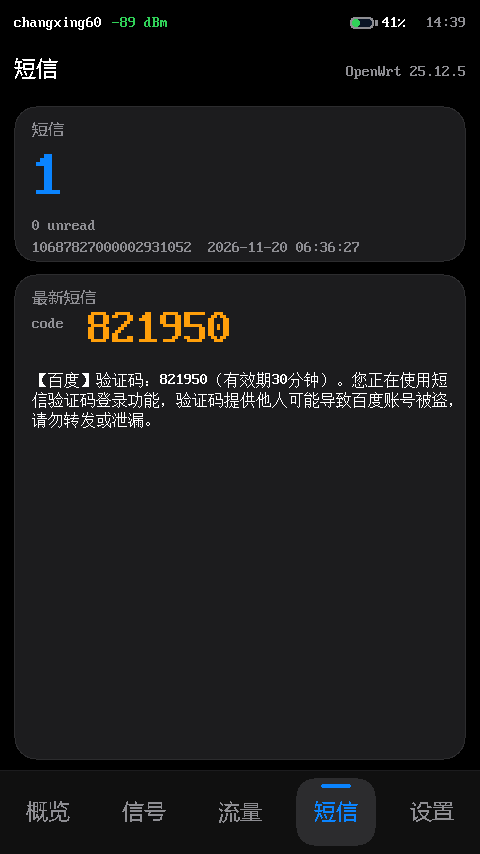
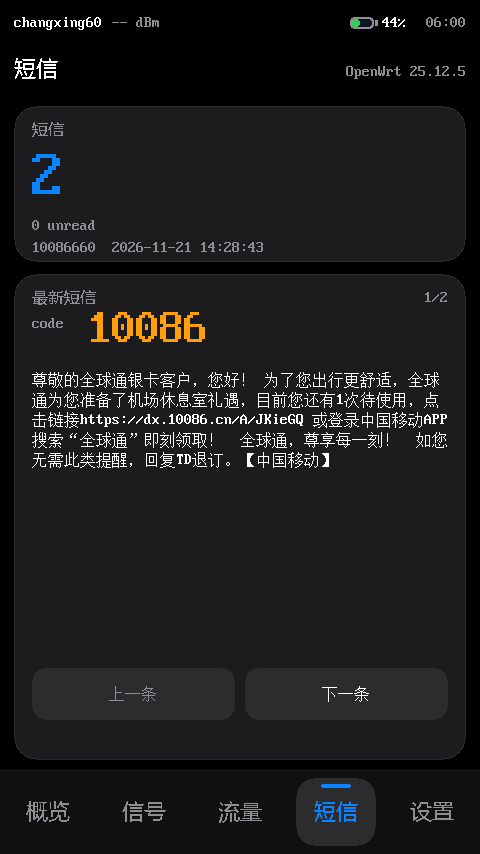
release: v1.1.8（内屏短信上/下条切换）

diff --git a/docs/LAST-KNOWN-GOOD.md b/docs/LAST-KNOWN-GOOD.md
@@ -3,11 +3,11 @@
 仓库现在**只保留一个 Release**，所以这份文件记录"当前这版到底验证过什么"。
 回退时如果没法从 GitHub 拿到旧包，以这里的校验和与检查项为准。
 
-## v1.1.7 — 2026-11-20
+## v1.1.8 — 2026-11-20
 
 | 资源 | SHA256 |
 |---|---|
[5 lines of base64/hex data omitted]
@@ -16,12 +16,12 @@
 
 - 从 GitHub 下载 → 校验 → 重建 ext4 → 解包 → 写 boot_b / misc → 启动（v1.0.6 起端到端验证过，流程未变）；
 - OpenWrt 25.12.5 / 内核 5.4.254-gb50db5b6224c；
[1 lines of base64/hex data omitted]
+- 面板二进制 `f060645bd425e89a23c9bcdfa9f45086`；
   内屏各页、电源菜单、热点面板、温度面板、ShellCrash 节点/延时/流量图均实机使用过；
 - CPU 调速器 `schedutil`、充电上限 80%（`charge-cap=800`）、flow offload、`usb0` hotplug 修复；
 - 镜像内无订阅配置、无 SSH 公钥、无诊断日志。
 
-### 已知问题（v1.1.7 仍在）
+### 已知问题（v1.1.8 仍在）
 
 - 启动偶尔卡在 `switch_root` 之后（约一半概率），强制重启一次通常可进；
 - 内核每次启动打印 `BUG: Bad page state`（显示驱动重复释放 logo 页）与 `unknown esd check mode:4`，属驱动问题；
